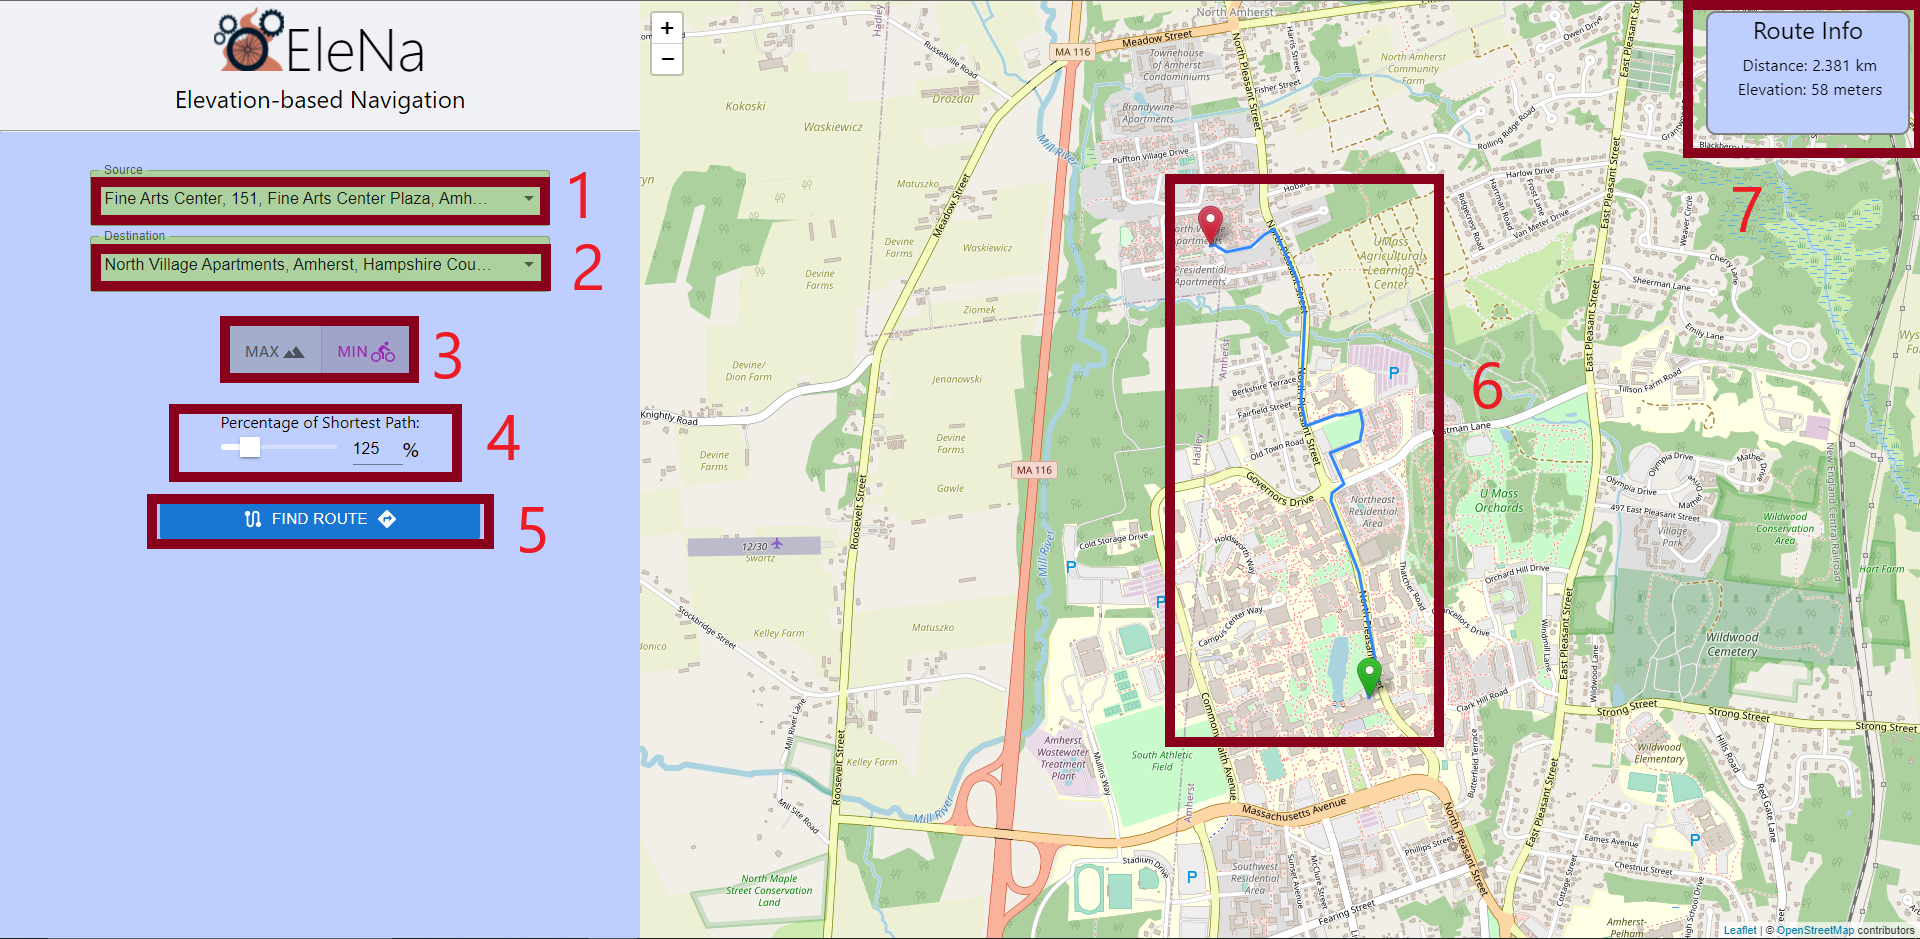
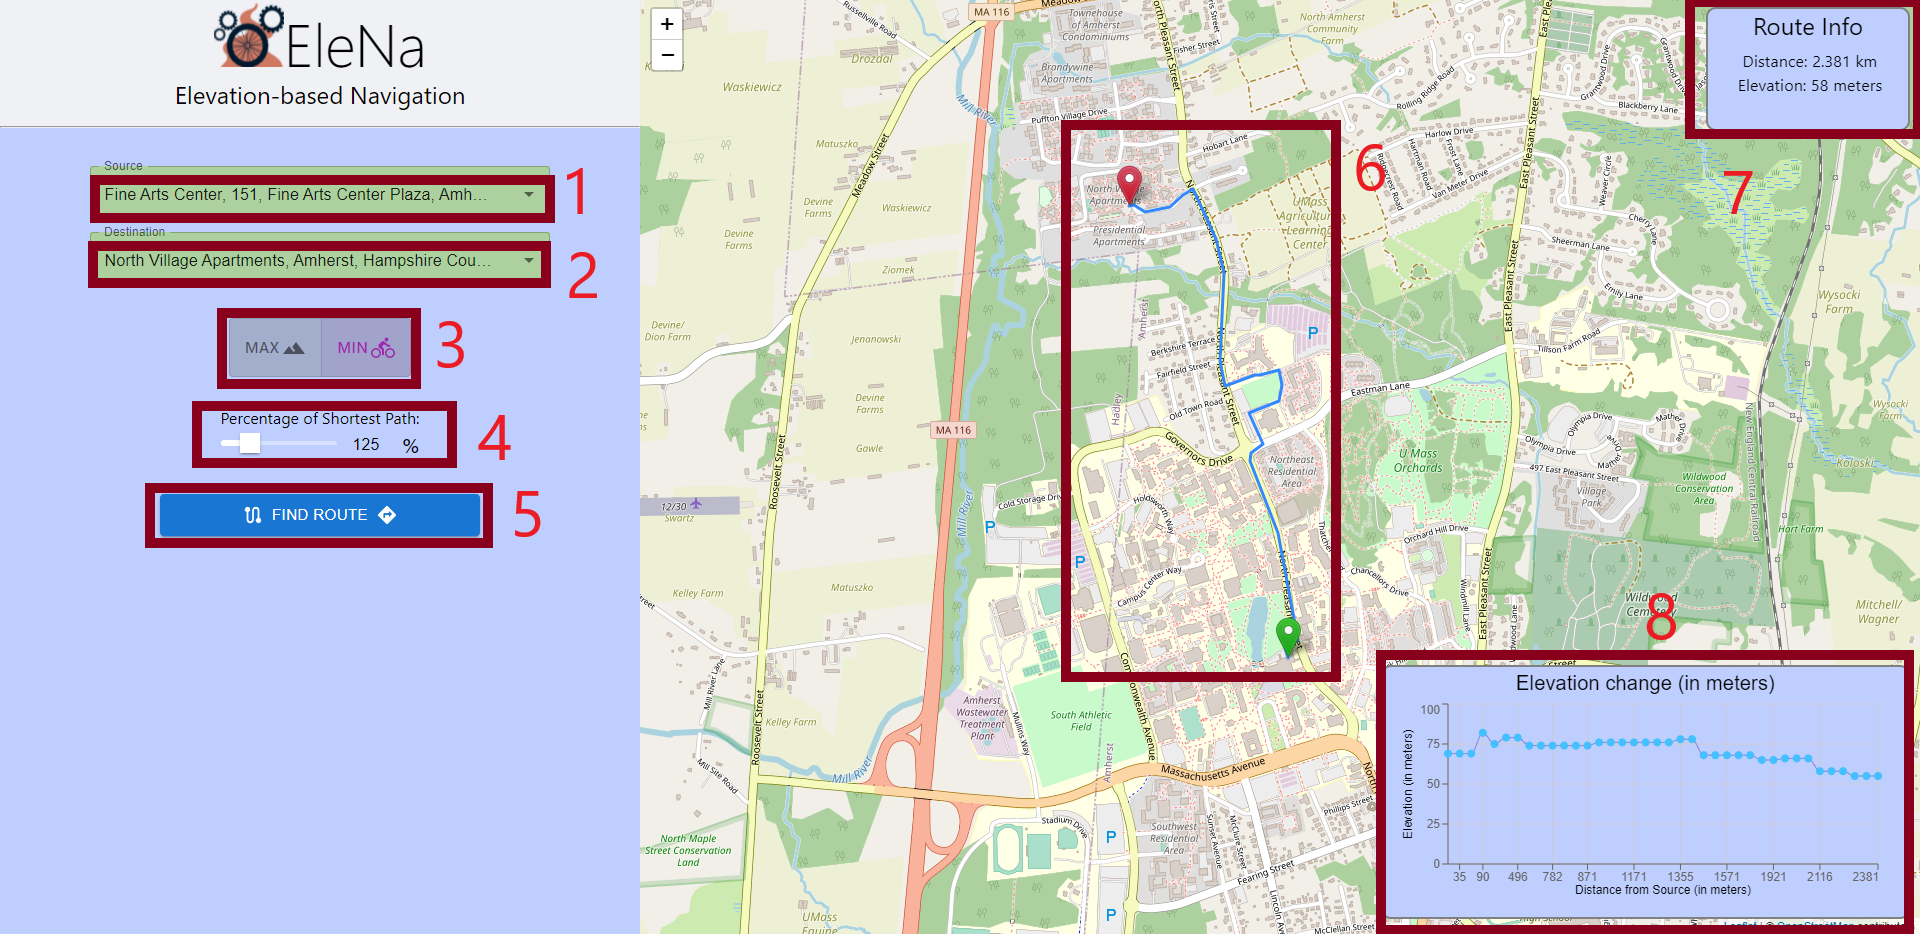
new map component for readme

diff --git a/README.md b/README.md
@@ -86,6 +86,9 @@ When you run 'npm start' in Elena/elena-frontend, this is what you will see.
 
 7. This displays the elevation difference and distance between the two points
 
+8. Elevation count graph, you can hover over each point to distance from source and elevation
+<img src=Pictures/statinfo.PNG width=50% height=50%>
+
 <!-- CONTRIBUTING -->
 
 <a name="contribute"></a>
